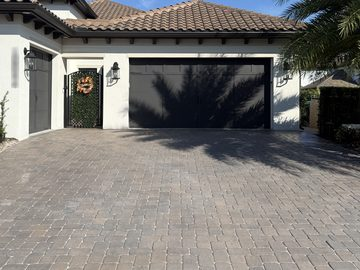
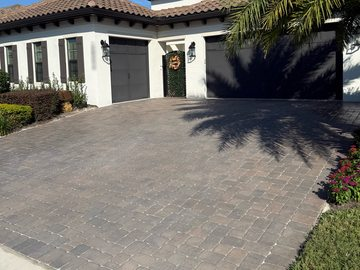
Swap paver sealing hero to the street driveway pair (?v=20261108k)
Crop each angle so the driveway fills a similar area. The blurred house
number stays fully inside the frame.

diff --git a/404.html b/404.html
@@ -26,7 +26,7 @@
   <link rel="preconnect" href="https://fonts.googleapis.com">
   <link rel="preconnect" href="https://fonts.gstatic.com" crossorigin>
   <link rel="stylesheet" href="https://fonts.googleapis.com/css2?family=Plus+Jakarta+Sans:wght@400;500;600;700;800&amp;display=swap">
-  <link rel="stylesheet" href="/css/styles.css?v=20261108i">
+  <link rel="stylesheet" href="/css/styles.css?v=20261108k">
 
   <script type="application/ld+json" id="business-jsonld">
 {

diff --git a/about/index.html b/about/index.html
@@ -28,7 +28,7 @@
   <link rel="preconnect" href="https://fonts.googleapis.com">
   <link rel="preconnect" href="https://fonts.gstatic.com" crossorigin>
   <link rel="stylesheet" href="https://fonts.googleapis.com/css2?family=Plus+Jakarta+Sans:wght@400;500;600;700;800&amp;display=swap">
-  <link rel="stylesheet" href="/css/styles.css?v=20261108i">
+  <link rel="stylesheet" href="/css/styles.css?v=20261108k">
 
   <script type="application/ld+json" id="business-jsonld">
 {

diff --git a/index.html b/index.html
@@ -28,7 +28,7 @@
   <link rel="preconnect" href="https://fonts.googleapis.com">
   <link rel="preconnect" href="https://fonts.gstatic.com" crossorigin>
   <link rel="stylesheet" href="https://fonts.googleapis.com/css2?family=Plus+Jakarta+Sans:wght@400;500;600;700;800&amp;display=swap">
-  <link rel="stylesheet" href="/css/styles.css?v=20261108i">
+  <link rel="stylesheet" href="/css/styles.css?v=20261108k">
 
   <script type="application/ld+json" id="business-jsonld">
 {

diff --git a/paver-sealing/index.html b/paver-sealing/index.html
@@ -28,7 +28,7 @@
   <link rel="preconnect" href="https://fonts.googleapis.com">
   <link rel="preconnect" href="https://fonts.gstatic.com" crossorigin>
   <link rel="stylesheet" href="https://fonts.googleapis.com/css2?family=Plus+Jakarta+Sans:wght@400;500;600;700;800&amp;display=swap">
-  <link rel="stylesheet" href="/css/styles.css?v=20261108i">
+  <link rel="stylesheet" href="/css/styles.css?v=20261108k">
 
   <script type="application/ld+json" id="business-jsonld">
 {

diff --git a/pressure-washing/index.html b/pressure-washing/index.html
@@ -28,7 +28,7 @@
   <link rel="preconnect" href="https://fonts.googleapis.com">
   <link rel="preconnect" href="https://fonts.gstatic.com" crossorigin>
   <link rel="stylesheet" href="https://fonts.googleapis.com/css2?family=Plus+Jakarta+Sans:wght@400;500;600;700;800&amp;display=swap">
-  <link rel="stylesheet" href="/css/styles.css?v=20261108i">
+  <link rel="stylesheet" href="/css/styles.css?v=20261108k">
 
   <script type="application/ld+json" id="business-jsonld">
 {

diff --git a/pricing/index.html b/pricing/index.html
@@ -28,7 +28,7 @@
   <link rel="preconnect" href="https://fonts.googleapis.com">
   <link rel="preconnect" href="https://fonts.gstatic.com" crossorigin>
   <link rel="stylesheet" href="https://fonts.googleapis.com/css2?family=Plus+Jakarta+Sans:wght@400;500;600;700;800&amp;display=swap">
-  <link rel="stylesheet" href="/css/styles.css?v=20261108i">
+  <link rel="stylesheet" href="/css/styles.css?v=20261108k">
 
   <script type="application/ld+json" id="business-jsonld">
 {

diff --git a/sealer-stripping/index.html b/sealer-stripping/index.html
@@ -28,7 +28,7 @@
   <link rel="preconnect" href="https://fonts.googleapis.com">
   <link rel="preconnect" href="https://fonts.gstatic.com" crossorigin>
   <link rel="stylesheet" href="https://fonts.googleapis.com/css2?family=Plus+Jakarta+Sans:wght@400;500;600;700;800&amp;display=swap">
-  <link rel="stylesheet" href="/css/styles.css?v=20261108i">
+  <link rel="stylesheet" href="/css/styles.css?v=20261108k">
 
   <script type="application/ld+json" id="business-jsonld">
 {

diff --git a/service-area/index.html b/service-area/index.html
@@ -28,7 +28,7 @@
   <link rel="preconnect" href="https://fonts.googleapis.com">
   <link rel="preconnect" href="https://fonts.gstatic.com" crossorigin>
   <link rel="stylesheet" href="https://fonts.googleapis.com/css2?family=Plus+Jakarta+Sans:wght@400;500;600;700;800&amp;display=swap">
-  <link rel="stylesheet" href="/css/styles.css?v=20261108i">
+  <link rel="stylesheet" href="/css/styles.css?v=20261108k">
 
   <script type="application/ld+json" id="business-jsonld">
 {

diff --git a/soft-washing/index.html b/soft-washing/index.html
@@ -28,7 +28,7 @@
   <link rel="preconnect" href="https://fonts.googleapis.com">
   <link rel="preconnect" href="https://fonts.gstatic.com" crossorigin>
   <link rel="stylesheet" href="https://fonts.googleapis.com/css2?family=Plus+Jakarta+Sans:wght@400;500;600;700;800&amp;display=swap">
-  <link rel="stylesheet" href="/css/styles.css?v=20261108i">
+  <link rel="stylesheet" href="/css/styles.css?v=20261108k">
 
   <script type="application/ld+json" id="business-jsonld">
 {

diff --git a/driveway-pool-deck-package/index.html b/driveway-pool-deck-package/index.html
@@ -28,7 +28,7 @@
   <link rel="preconnect" href="https://fonts.googleapis.com">
   <link rel="preconnect" href="https://fonts.gstatic.com" crossorigin>
   <link rel="stylesheet" href="https://fonts.googleapis.com/css2?family=Plus+Jakarta+Sans:wght@400;500;600;700;800&amp;display=swap">
-  <link rel="stylesheet" href="/css/styles.css?v=20261108i">
+  <link rel="stylesheet" href="/css/styles.css?v=20261108k">
 
   <script type="application/ld+json">
 {

diff --git a/gallery/index.html b/gallery/index.html
@@ -28,7 +28,7 @@
   <link rel="preconnect" href="https://fonts.googleapis.com">
   <link rel="preconnect" href="https://fonts.gstatic.com" crossorigin>
   <link rel="stylesheet" href="https://fonts.googleapis.com/css2?family=Plus+Jakarta+Sans:wght@400;500;600;700;800&amp;display=swap">
-  <link rel="stylesheet" href="/css/styles.css?v=20261108i">
+  <link rel="stylesheet" href="/css/styles.css?v=20261108k">
 </head>
 <body>
 

diff --git a/css/styles.css b/css/styles.css
@@ -1508,7 +1508,7 @@ a:hover { color: var(--blue-dark); }
   }
 }
 
-/* Paver sealing page header: real before/after photo from house 10044 */
+/* Paver sealing page header: street-view driveway before/after photo */
 .page-hero--ba {
   background: #111111 url("/images/hero/paver-after-mobile.jpg") center 62% / cover no-repeat;
   padding: 1.8rem 0 11.5rem;
